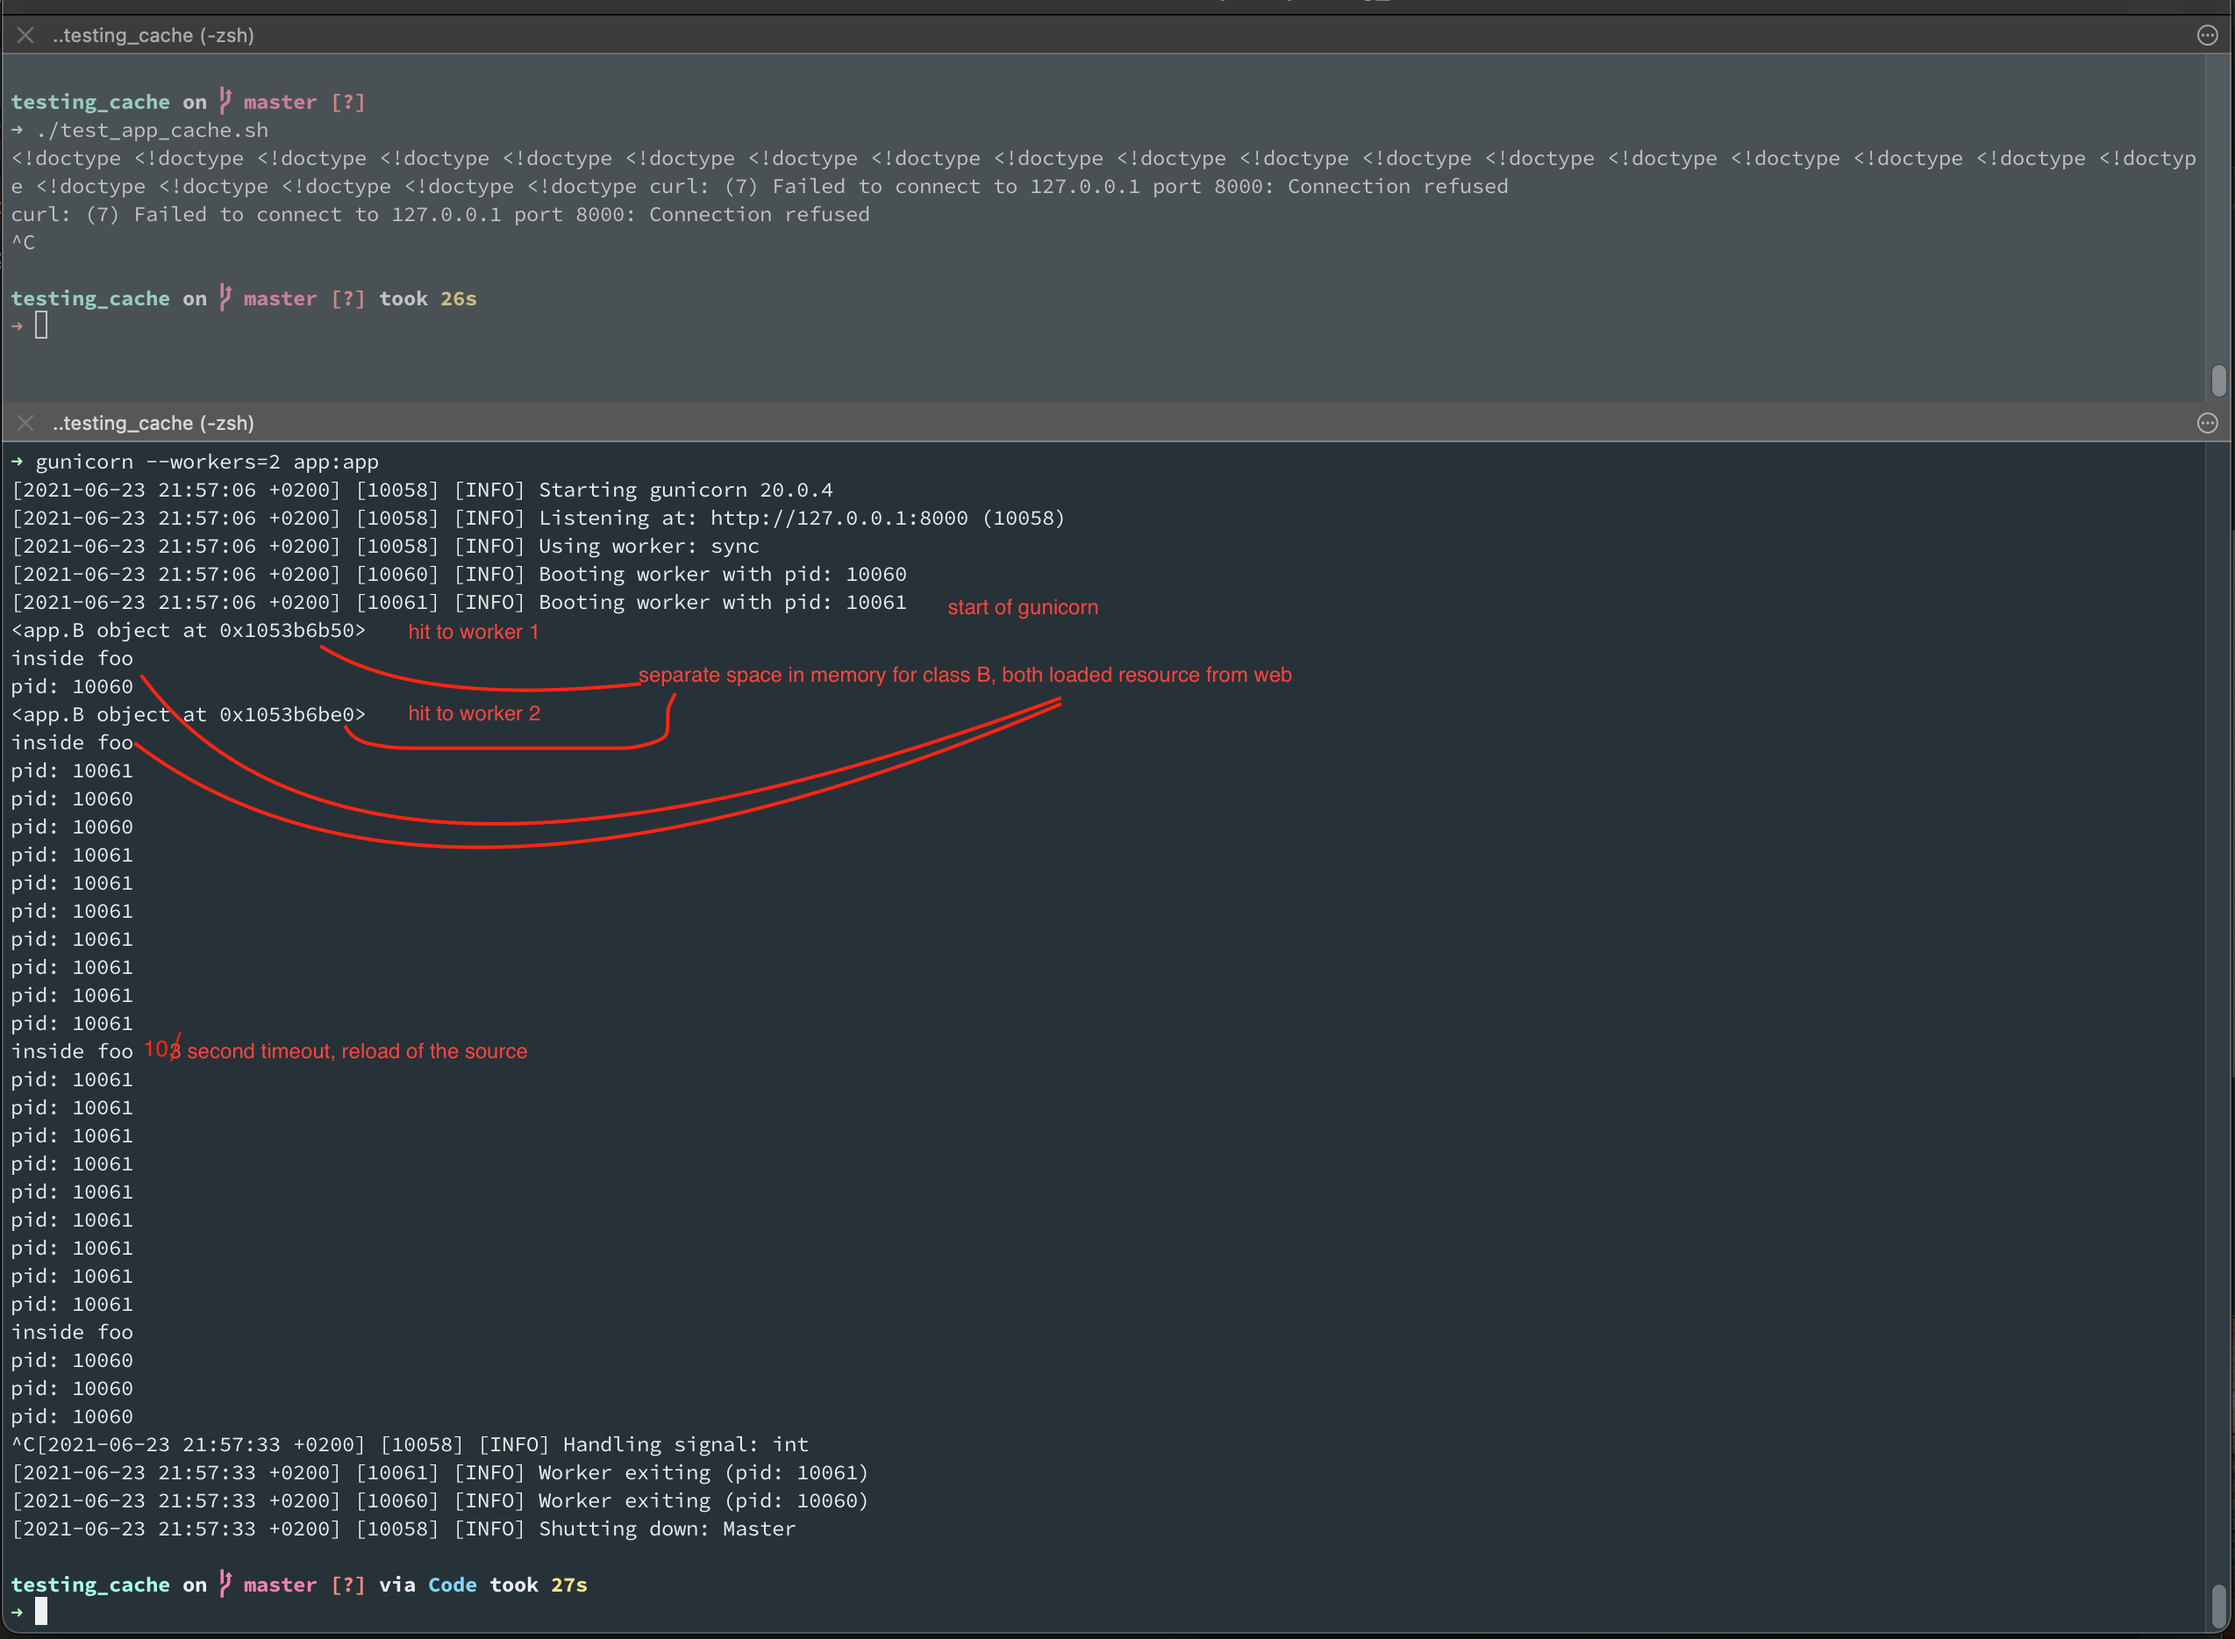
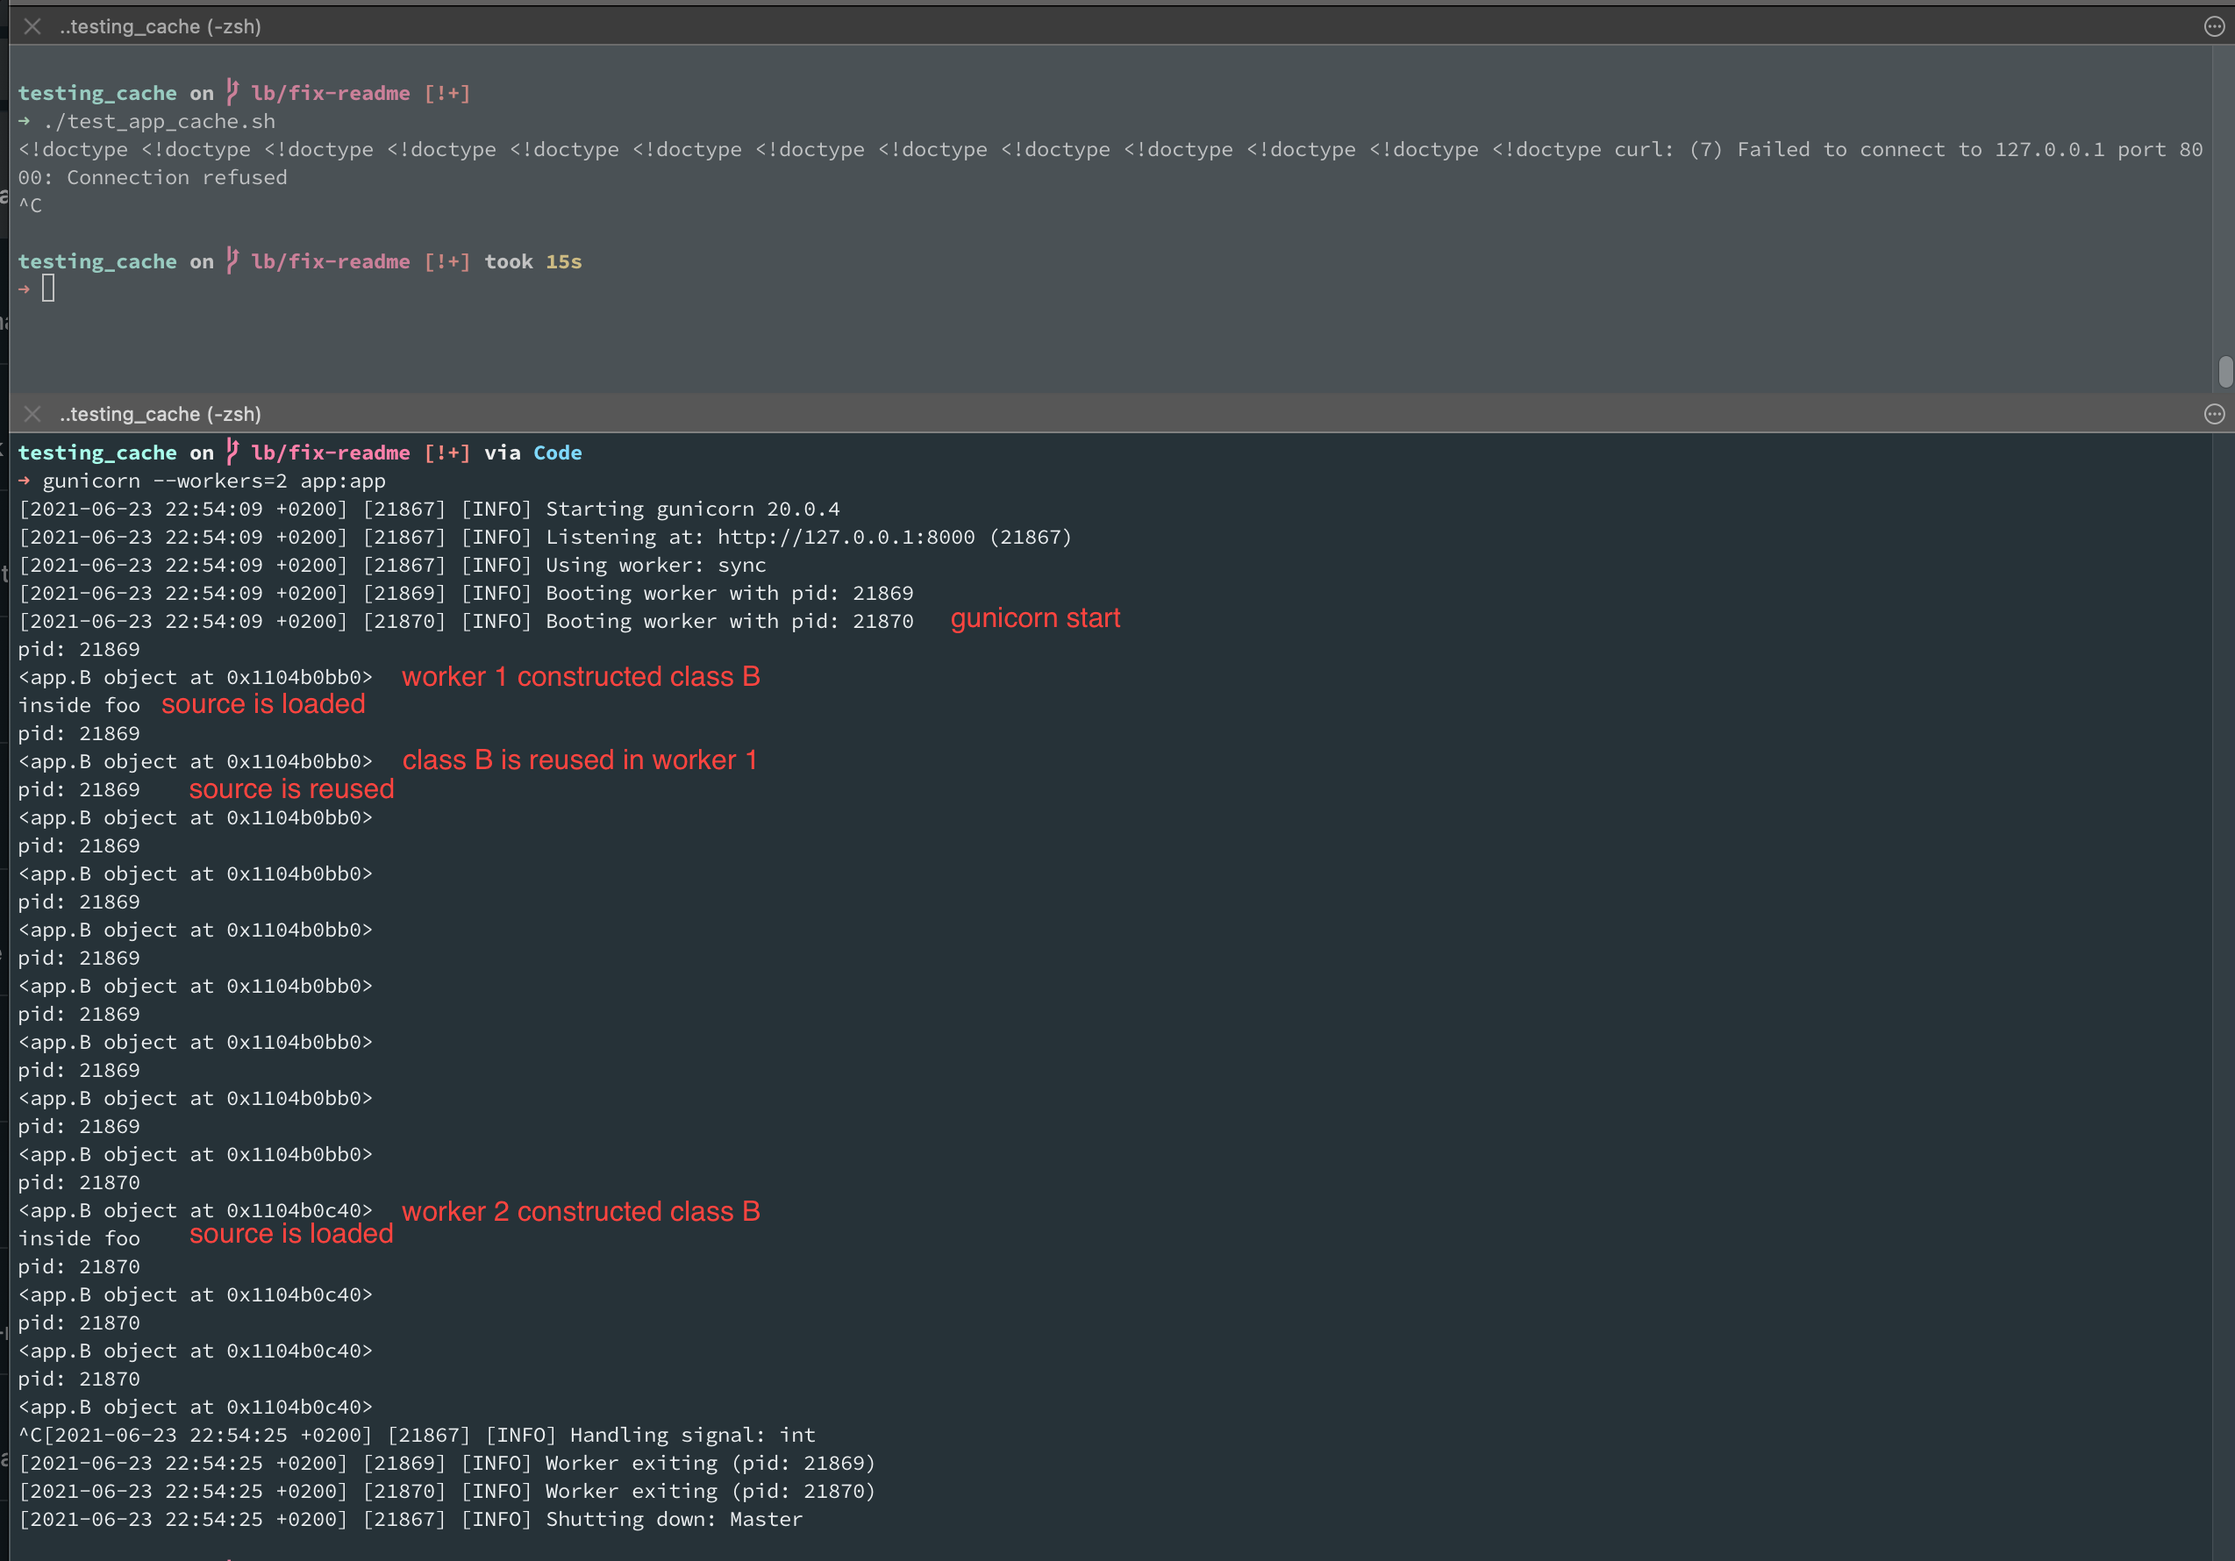
test1: clarify

Changed region(s): [[0.0, 0.0, 1.0, 1.0]]

diff --git a/app.py b/app.py
@@ -31,16 +31,15 @@ class B:
 @lru_cache(maxsize=5)
 def class_factory():
     client = B()
-    print(client)
     return client
 
 
 def main():
-    a = class_factory().foo()[:10]
-    # print(class_factory.cache_info())
-
     print(f"pid: {os.getpid()}")
-    return a
+    a = class_factory()
+    # print(class_factory.cache_info())
+    print(a)
+    return a.foo()[:10]
 
 
 def main2():
@@ -56,7 +55,8 @@ def main3():
     print(b)
     return b.foo2()[:10]
 
-## app here ## 
+
+## app here ##
 app = Flask(__name__)
 
 

diff --git a/readme.md b/readme.md
@@ -16,12 +16,12 @@ in separate terminal start test
 
 ![test1](docs/test1.png)
 
-works fine since `class B` is cached in gunicorn worker's memory. Therefore `self`
+Works fine since `class B` is cached by `lru_cache` in gunicorn worker's memory per worker. Therefore `self`
 parameter in `foo` is never different which allows the `TTLCache` work correctly.
 
 ## test2: no LRU just TTL in class
 
-![test2](docs/test3.png)
+![test2](docs/test2.png)
 
 Since `class B` is constructed and stored for each separate API hit and cache works
 based on method parameters from which one is `self` (always different) this solution can
